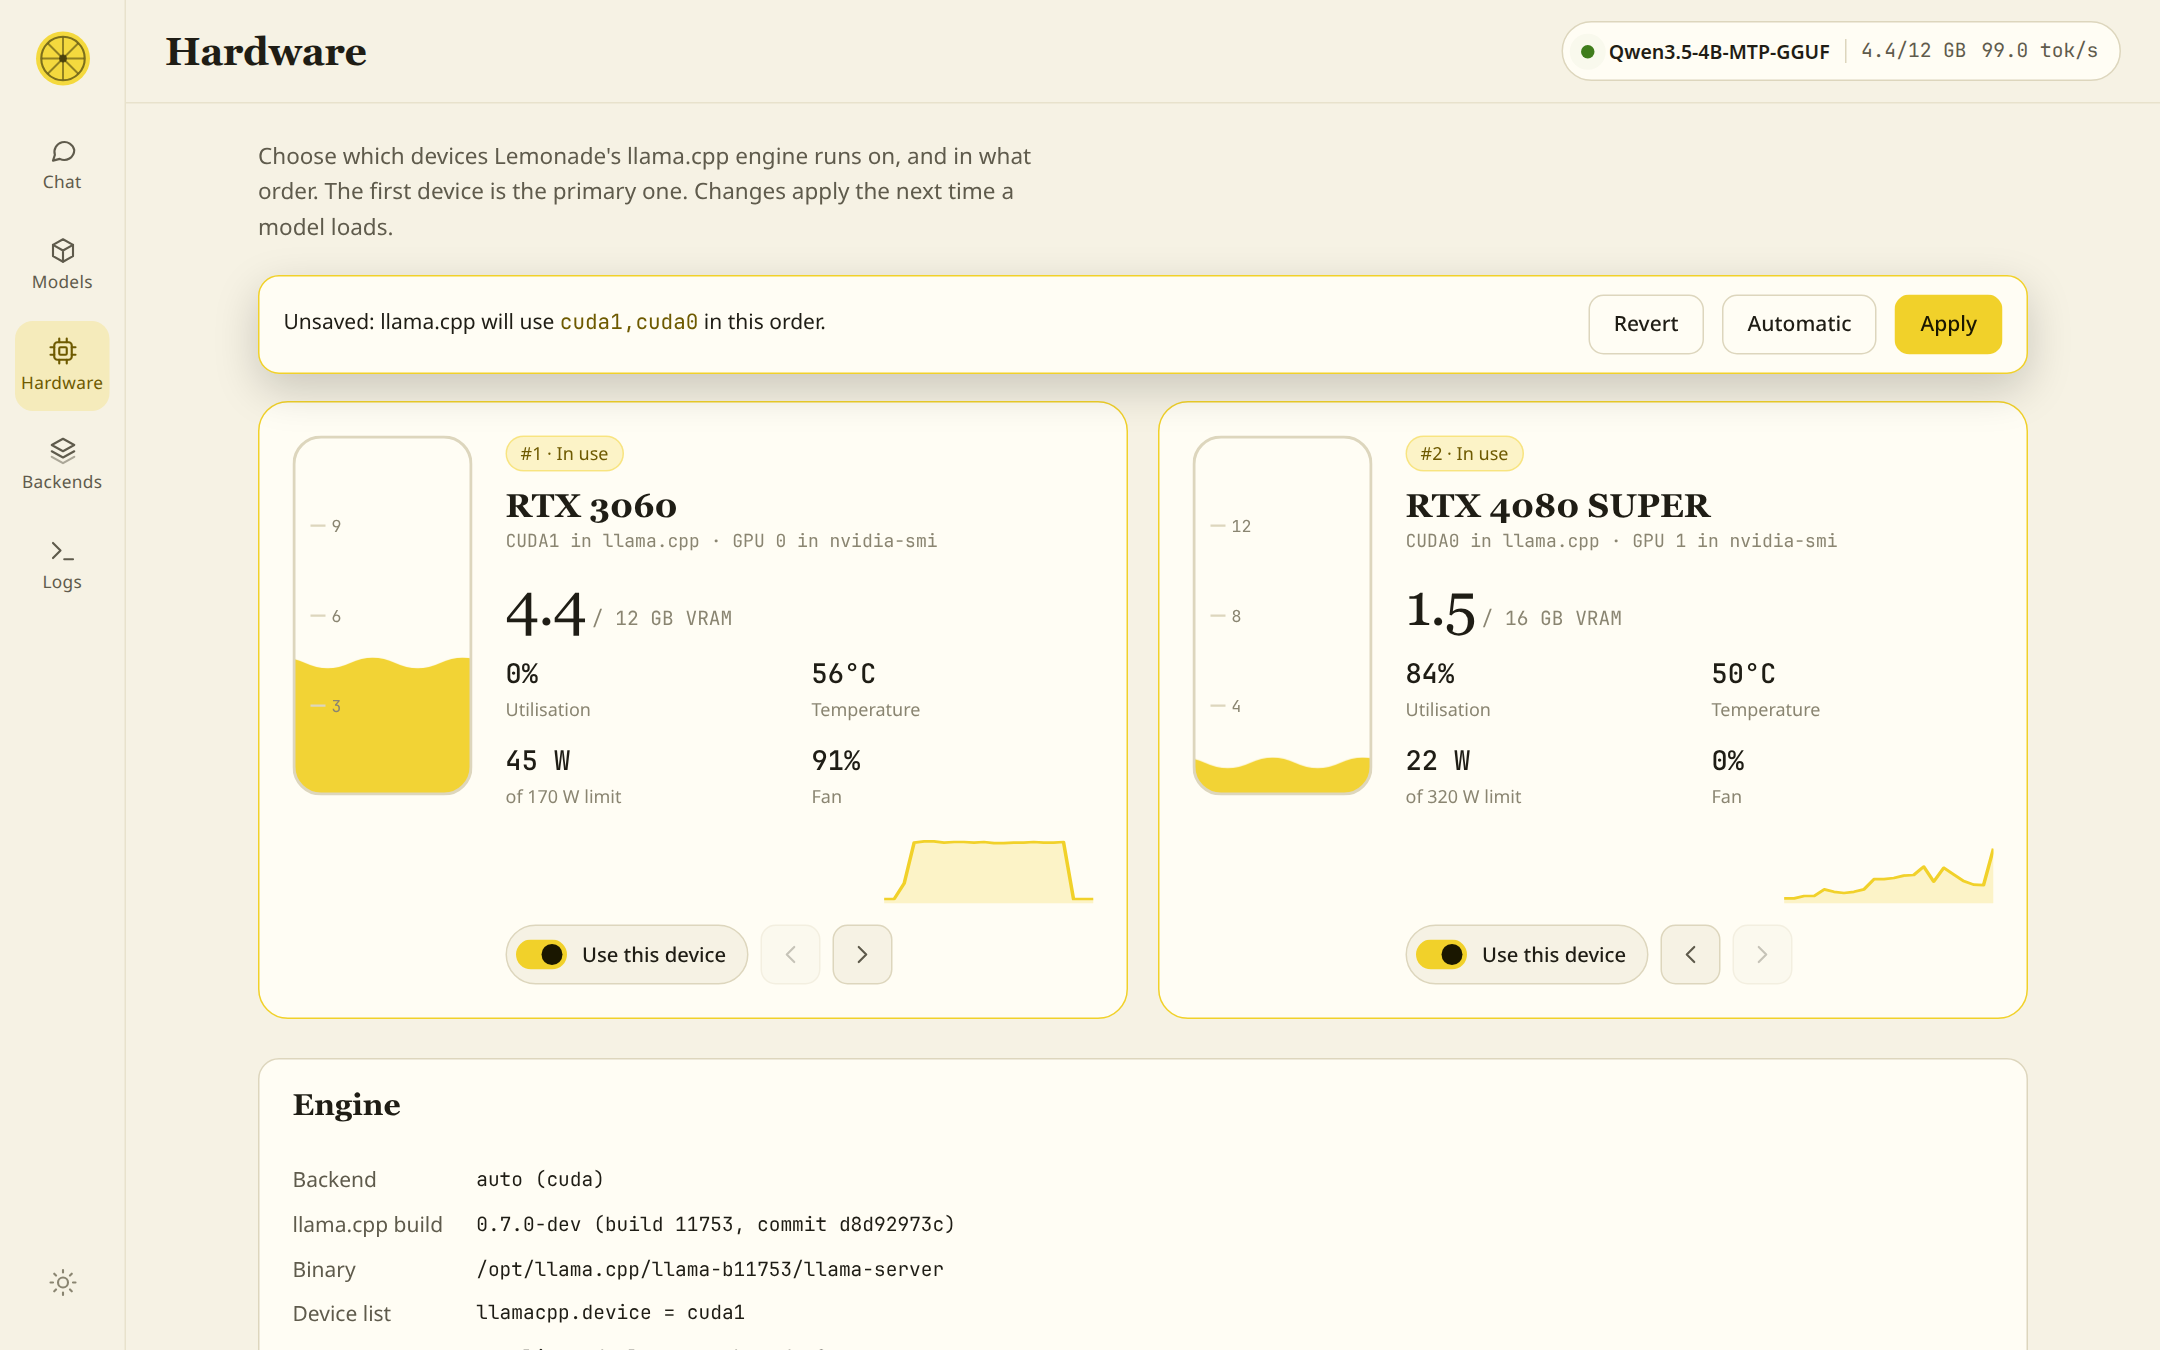
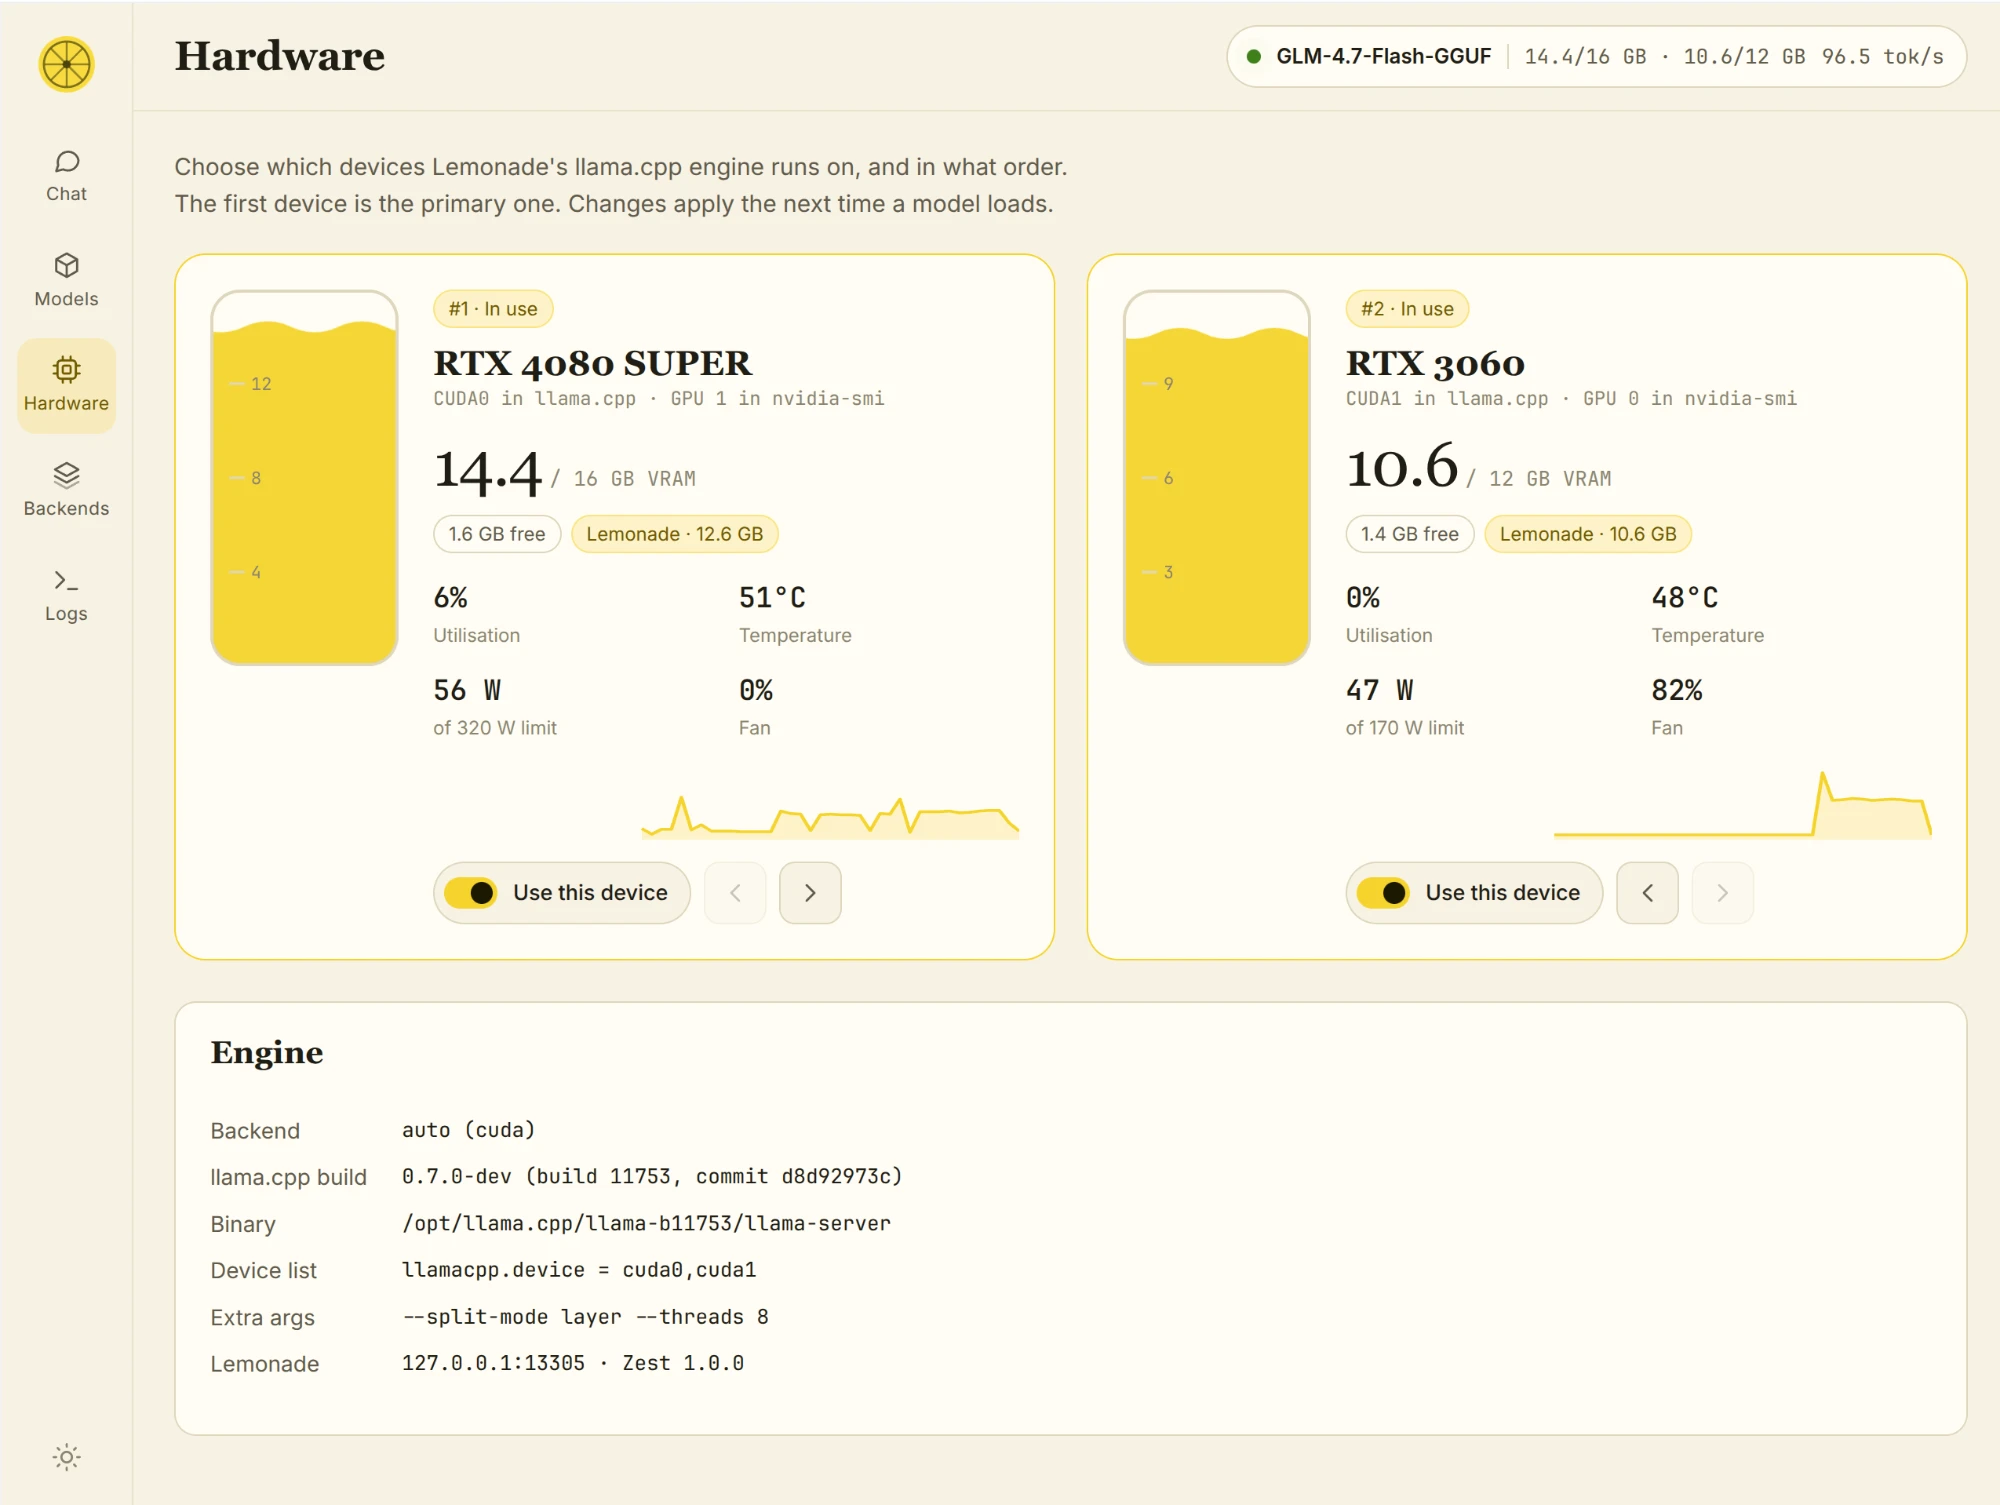
Update the Hardware screenshot

diff --git a/README.md b/README.md
@@ -28,7 +28,7 @@ The meter on each card is the size of the model against the VRAM that is free ri
 ![Models](docs/screenshots/models.png)
 
 ### Hardware
-Select GPUs and set their order. The first device is the primary one. Nothing changes until you press **Apply**.
+Select GPUs and set their order. The first device is the primary one. Each card shows how much VRAM is free and which processes are using it (here, Lemonade running a model split across both cards). Nothing changes until you press **Apply**.
 
 ![Hardware](docs/screenshots/hardware.png)
 
